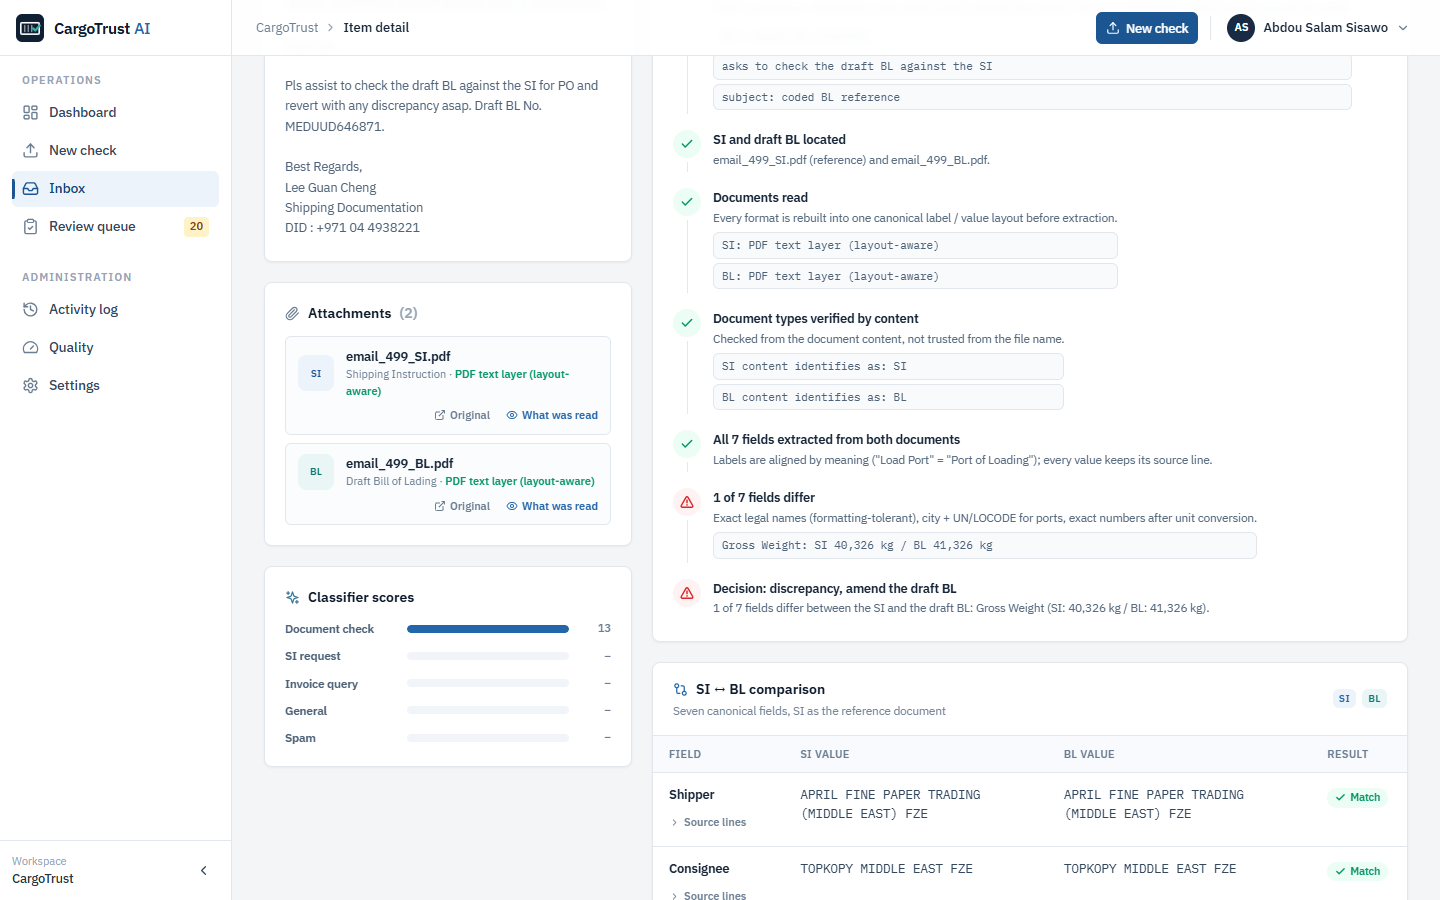
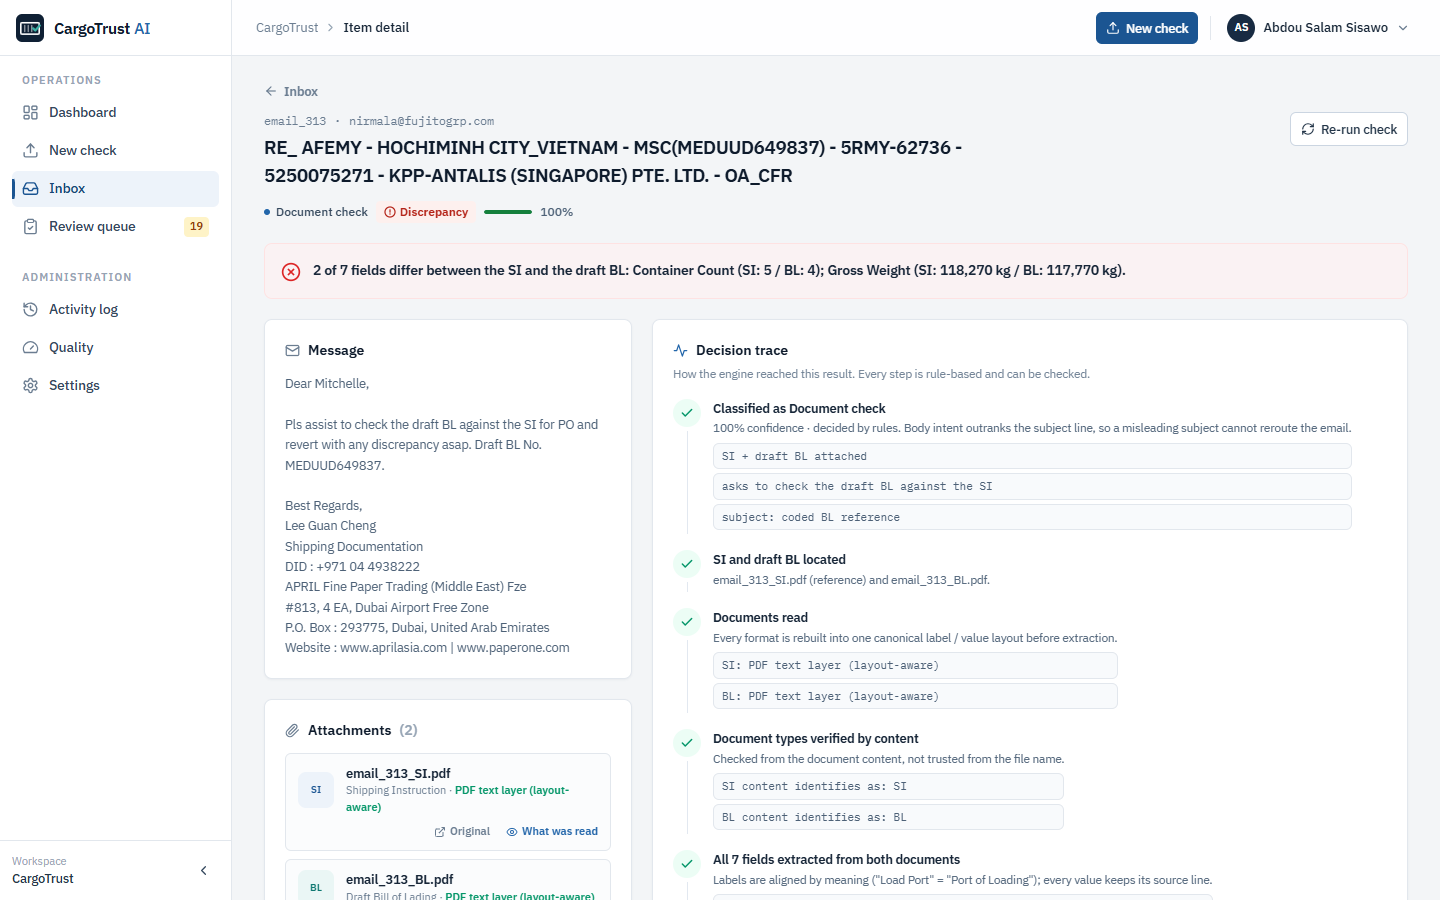
README: badges, project status, demo (Vercel) and production (Docker) deployments, refreshed screenshots
- Two badge rows: live demo status, benchmark and robustness results, last
  commit, license; stack (Next.js, TypeScript, Node 24, Postgres, Docker,
  Vercel, Claude, Tesseract).
- Status table states what is live and verified and what is not yet (the
  Docker image build).
- Deployment section compares the hosted demo with the on-premise setup.
- New screenshots of the landing page, dashboard, item detail, review queue
  and new check (also used by the landing page tour).
- Dockerfile on Node 24 to match the tested runtime; Compose passes an
  optional DATABASE_URL for an organisation's own Postgres.

diff --git a/README.md b/README.md
@@ -1,13 +1,51 @@
-# CargoTrust AI: shipping document verification
+<h1 align="center">CargoTrust AI</h1>
 
-**From email inbox to discrepancy report.** CargoTrust checks every **Shipping Instruction (SI)**
-against its draft **Bill of Lading (BL)** before the BL is issued. It reads customer emails and
-documents in whatever format they arrive (text, PDF, Word, Excel, scanned PDFs and phone photos),
-compares the seven fields that cause costly BL amendments, and drafts the reply to the customer.
-When it cannot decide reliably, it sends the case to a person with the reason and the evidence
-instead of guessing.
+<p align="center"><b>Shipping document verification: every Shipping Instruction checked against its draft Bill of Lading before the BL is issued.</b></p>
 
-![Decision trace for a PDF pair with a weight discrepancy](public/screens/email-trace.png)
+<p align="center">
+  <a href="https://cargotrust-ai.vercel.app"><img alt="Live demo" src="https://img.shields.io/website?url=https%3A%2F%2Fcargotrust-ai.vercel.app%2Fapi%2Fhealth&label=live%20demo&up_message=online&down_message=offline&logo=vercel&logoColor=white"></a>
+  <a href="#proven-not-claimed"><img alt="Benchmark score 1.0000" src="https://img.shields.io/badge/benchmark-1.0000-2E7D32"></a>
+  <a href="#proven-not-claimed"><img alt="Defects caught 46 of 46" src="https://img.shields.io/badge/defects%20caught-46%2F46-2E7D32"></a>
+  <a href="#proven-not-claimed"><img alt="Robustness 883 of 883" src="https://img.shields.io/badge/robustness-883%2F883-2E7D32"></a>
+  <a href="https://github.com/AbdouSalamSisawo/CargoTrust-AI-Shipping-Verifier/commits/main"><img alt="Last commit" src="https://img.shields.io/github/last-commit/AbdouSalamSisawo/CargoTrust-AI-Shipping-Verifier?color=1B5592"></a>
+  <a href="LICENSE"><img alt="MIT license" src="https://img.shields.io/badge/license-MIT-1B5592"></a>
+</p>
+<p align="center">
+  <img alt="Next.js 14" src="https://img.shields.io/badge/Next.js-14-000000?logo=nextdotjs&logoColor=white">
+  <img alt="TypeScript 5" src="https://img.shields.io/badge/TypeScript-5-3178C6?logo=typescript&logoColor=white">
+  <img alt="Node.js 24" src="https://img.shields.io/badge/Node.js-24-5FA04E?logo=nodedotjs&logoColor=white">
+  <img alt="PostgreSQL optional" src="https://img.shields.io/badge/PostgreSQL-optional-4169E1?logo=postgresql&logoColor=white">
+  <img alt="Docker on-premise" src="https://img.shields.io/badge/Docker-on--premise-2496ED?logo=docker&logoColor=white">
+  <img alt="Vercel demo" src="https://img.shields.io/badge/Vercel-demo-000000?logo=vercel&logoColor=white">
+  <img alt="Claude optional AI reading" src="https://img.shields.io/badge/Claude-optional%20AI%20reading-D97757?logo=anthropic&logoColor=white">
+  <img alt="Tesseract OCR" src="https://img.shields.io/badge/OCR-Tesseract-5A6B7B">
+</p>
+
+<p align="center">
+  <a href="https://cargotrust-ai.vercel.app"><b>Live demo</b></a> ·
+  <a href="#two-deployments">Deployments</a> ·
+  <a href="#proven-not-claimed">Results</a> ·
+  <a href="#screens">Screens</a> ·
+  <a href="#architecture">Architecture</a>
+</p>
+
+![CargoTrust AI landing page](public/screens/landing.png)
+
+CargoTrust reads customer emails and documents in whatever format they arrive (text, PDF, Word,
+Excel, scanned PDFs and phone photos), compares the seven fields that cause costly BL amendments, and
+drafts the reply to the customer. When it cannot decide reliably, it sends the case to a person with
+the reason and the evidence instead of guessing.
+
+## Where the project stands
+
+| Area | Status |
+| --- | --- |
+| **Verification engine** | Complete. Scores 1.0000 on the Averis × Monash 2026 benchmark and passes all 883 mutation tests (see [results](#proven-not-claimed)). |
+| **Console** | Complete for a documentation desk: new checks, `.eml` import, inbox, decision trace, review queue, CSV export, accounts with three roles, activity log, settings. |
+| **Demo deployment** | **Live** at <https://cargotrust-ai.vercel.app>: Vercel, Neon Postgres and a private Blob store, all in Frankfurt. Sign-in, text, Word, Excel and scanned-PDF checks verified on the live site. |
+| **On-premise deployment** | Docker image and Compose file for an organisation's own server. The same code runs and is tested on Node locally; the Docker image itself has not yet been built and verified on a Docker host. |
+| **AI reading** | Built and tested offline (`npm run check:ai`). Switched on per organisation with its own Anthropic API key; off on the public demo. |
+| **Next** | Live mailbox connection (IMAP / Microsoft 365), single sign-on, a pilot on real documents. |
 
 ## Why it matters
 
@@ -64,63 +102,77 @@ Without a key, everything works; scans are read by OCR and always go to a person
   each item shows its own history.
 * Results export to CSV for reporting.
 
-## Run it
+## Two deployments
 
-### Docker (recommended for a server)
+The same codebase is maintained for two setups. Environment variables choose where data lives; no code
+changes between them.
+
+| | **Demo: Vercel** | **Production: Docker on your own server** |
+| --- | --- | --- |
+| For | Pitches, interviews, trying it out | A port, terminal or forwarder using it on real shipments |
+| Runs on | Vercel serverless functions (Frankfurt) | One container on the organisation's server or private cloud |
+| Database | Neon Postgres (`DATABASE_URL`) | A data volume, no database server needed; or the organisation's own Postgres |
+| Documents | Private Vercel Blob store | The data volume, on the organisation's disk |
+| Leaves the network | Everything (hosted service) | Nothing, except optional AI reading of scans |
+| HTTPS | Automatic | Behind the organisation's reverse proxy (nginx, Caddy, IIS) |
+| Status | Live and verified | Configuration ready; image build still to be verified |
+
+Both keep the same guarantees: sign-in for every page and API call, documents served only to
+signed-in users, an activity log of every action, and nothing decided by AI.
+
+### Production: Docker on your own server
+
+Recommended for real use. Shipping documents name customers, cargo and values, so they belong on the
+organisation's own infrastructure.
 
 ```bash
+cp .env.example .env            # set ADMIN_EMAIL, ADMIN_PASSWORD, AUTH_SECRET; SAMPLE_DATA=0 for a clean start
 docker compose up -d --build
-docker compose logs cargotrust | grep -A3 "first-run administrator"
+docker compose logs cargotrust  # shows the first-run administrator if ADMIN_PASSWORD was left empty
 ```
 
-Open <http://localhost:3000> (or the server's address on your network) and sign in with the
-administrator shown in the log. The database, uploaded documents and OCR cache live in the
-`cargotrust-data` volume. Settings come from environment variables (see
-[`.env.example`](.env.example)), all optional: `ANTHROPIC_API_KEY`, `ADMIN_EMAIL`, `ADMIN_PASSWORD`,
-`AUTH_SECRET`, `SAMPLE_DATA`.
+Open `http://<server>:3000` and sign in. The database, uploaded documents and OCR cache live in the
+`cargotrust-data` volume; back it up like any other business data. The OCR model is bundled, so the
+container works without internet access; the only outbound call is the optional AI reading.
 
-### Node.js (laptop)
+Before going live: put the container behind HTTPS, change the administrator password, and remove the
+sample inbox under **Settings → Workspace** (or start with `SAMPLE_DATA=0`). To run several instances
+behind a load balancer, set `DATABASE_URL` to the organisation's Postgres 13+.
+
+### Demo: Vercel
+
+Serverless hosting has no lasting local disk, so on Vercel CargoTrust keeps its data in **Postgres**
+and its documents in a **private Blob store**.
+
+1. Import the repository in Vercel. `vercel.json` sets the Next.js preset and the `fra1` region.
+2. **Storage → Connect Database → Neon**. This sets `DATABASE_URL`.
+3. **Storage → Create → Blob**, access **Private**, connected to the project.
+4. **Settings → Environment Variables**: `AUTH_SECRET` (32+ random characters), `ADMIN_EMAIL` and
+   `ADMIN_PASSWORD`; `ANTHROPIC_API_KEY` for AI reading.
+5. Deploy. The first request creates the workspace, including the sample inbox unless `SAMPLE_DATA=0`.
+
+To seed the demo with an existing local workspace instead, run `vercel env pull .env.vercel` and
+`npm run data:push` before the first visit. It copies `data/` into Postgres and Blob, including cached
+OCR, and refuses to overwrite a database that already holds a workspace. Keep the production
+credentials in `.env.vercel`, not `.env.local`: Next.js loads `.env.local` automatically, which would
+point a local `npm start` at the live database.
+
+Notes from the first deployment: `.vercelignore` keeps `data/` and local files out of CLI uploads;
+`next.config.mjs` lists the files pdf.js and Tesseract load at runtime so they are bundled; on the
+Hobby plan a function may run at most 300 seconds. `/api/health` reports the storage in use
+(`"storage": "postgres", "files": "blob"`).
+
+### Local development
 
 ```bash
 npm install
-npm run build && npm start      # → http://localhost:3000   (or: npm run dev)
+npm run build && npm start      # http://localhost:3000   (or: npm run dev)
 ```
 
-On first boot CargoTrust creates the administrator account and writes its credentials to
-`data/admin-credentials.txt` (git-ignored); delete the file after you change the password. Requires
-Node 18.18+.
-
-The first boot also loads a **sample inbox of 520 realistic shipping emails** so there is something
-to explore. Remove it under **Settings → Workspace** before going live; your own uploads and imported
-email are kept.
-
-### Vercel (public link with HTTPS)
-
-Serverless hosting has no lasting local disk, so on Vercel CargoTrust keeps its data in **Postgres**
-and its documents in a **private Vercel Blob store**. Both are switched on by environment variables;
-without them it uses `data/` as above.
-
-1. Import the repository in Vercel (framework: Next.js; no build settings to change).
-2. **Storage → Connect Database → Neon** (Postgres). This sets `DATABASE_URL`.
-3. **Storage → Create → Blob**, access **Private**, connected to the project. This sets the Blob credentials.
-4. **Settings → Environment Variables**: set `ADMIN_EMAIL` and `ADMIN_PASSWORD` (first administrator),
-   `AUTH_SECRET` (32+ random characters) and, for AI reading, `ANTHROPIC_API_KEY`.
-5. Deploy. The first request creates the workspace, including the sample inbox unless `SAMPLE_DATA=0`.
-
-To start the hosted copy with an existing local workspace instead, run
-`vercel env pull .env.vercel` and then `npm run data:push` once before the first visit. It copies
-`data/` into Postgres and Blob (including cached OCR, so the sample inbox is not read again) and refuses
-to overwrite a database that already holds a workspace. Keep the production credentials in
-`.env.vercel`, not `.env.local`: Next.js loads `.env.local` automatically, which would point a local
-`npm start` at the live database.
-
-Notes from the first deployment: a project created from the CLI needs `"framework": "nextjs"` (set in
-`vercel.json`, together with the `fra1` region); `.vercelignore` keeps `data/` and local files out of
-CLI uploads; on the Hobby plan a function may run at most 300 seconds.
-
-`/api/health` reports which storage is in use (`"storage": "postgres", "files": "blob"`). The same two
-variables work on a company server too: point `DATABASE_URL` at any Postgres 13+ to run several
-CargoTrust instances behind a load balancer.
+Requires Node 24. On first boot CargoTrust creates the administrator account, writes its credentials
+to `data/admin-credentials.txt` (git-ignored; delete it after changing the password) and loads a
+**sample inbox of 520 realistic shipping emails**. Settings come from environment variables, all
+optional; see [`.env.example`](.env.example).
 
 ## Proven, not claimed
 
@@ -153,6 +205,15 @@ npm run score        # benchmark grader (needs the organizers' kit in .local/, g
 | **Activity log** | Who did what, and when. |
 | **Quality** | Self-test suite, mutation benchmark, benchmark record. |
 | **Settings** | Your password; team and roles; AI reading; organisation name and sample data. |
+
+## Screens
+
+| | |
+| --- | --- |
+| ![Dashboard](public/screens/dashboard.png) | ![Decision trace for a PDF pair with two discrepancies](public/screens/email-trace.png) |
+| **Dashboard.** Totals, what needs attention, and which fields most often differ. | **Item detail.** A PDF pair with two discrepancies: every decision step and the source line behind each value. |
+| ![Review queue](public/screens/reviews.png) | ![New check](public/screens/new-check.png) |
+| **Review queue.** Cases the engine would not decide alone, with the evidence and a suggested next step. | **New check.** Upload an SI and draft BL in any format, take a photo, or import customer emails. |
 
 ## Interface design
 
@@ -206,8 +267,8 @@ src/
   evidence highlighting and the "what was read" viewer work identically for every format.
 * **Escalate, never guess.** A crash, a placeholder, an unclear scan or a missing document can never
   produce `OK`.
-* **Runs on-premise.** One container, one data volume, OCR model bundled; the only outbound call is
-  the optional AI reading.
+* **Built to run on-premise.** One container, one data volume, OCR model bundled; the only outbound
+  call is the optional AI reading.
 * **Two storage modes, one code path.** With no configuration everything lives in `data/` (one JSON
   document with atomic writes, plus files), which suits a laptop or a single container. With
   `DATABASE_URL` and a Blob store it runs on Postgres and object storage, for serverless hosting or
@@ -217,6 +278,8 @@ src/
 
 ## Limitations and next steps
 
+* The Docker image is written but has not yet been built and run on a Docker host; that is the next
+  verification step for the on-premise setup.
 * Each server instance holds the whole workspace in memory. That is fast and simple up to tens of
   thousands of items; beyond that, queries should move into SQL.
 * Email arrives by `.eml` import; a live mailbox connection (IMAP / Microsoft 365) is the natural next
